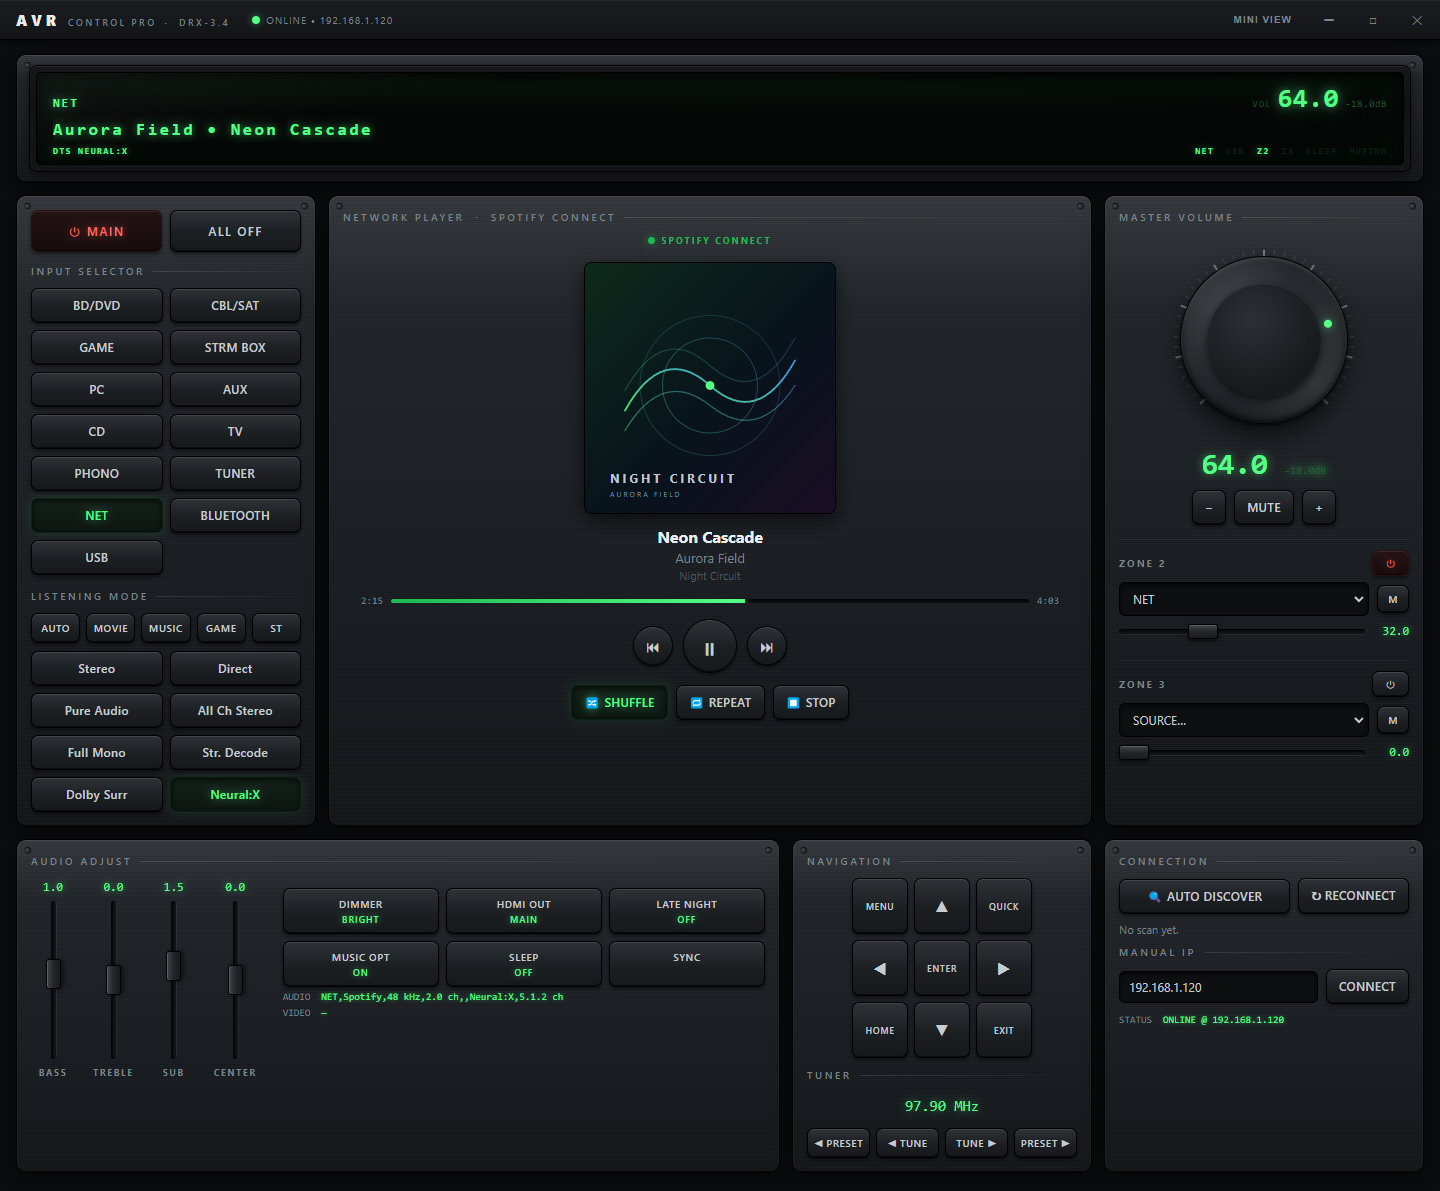
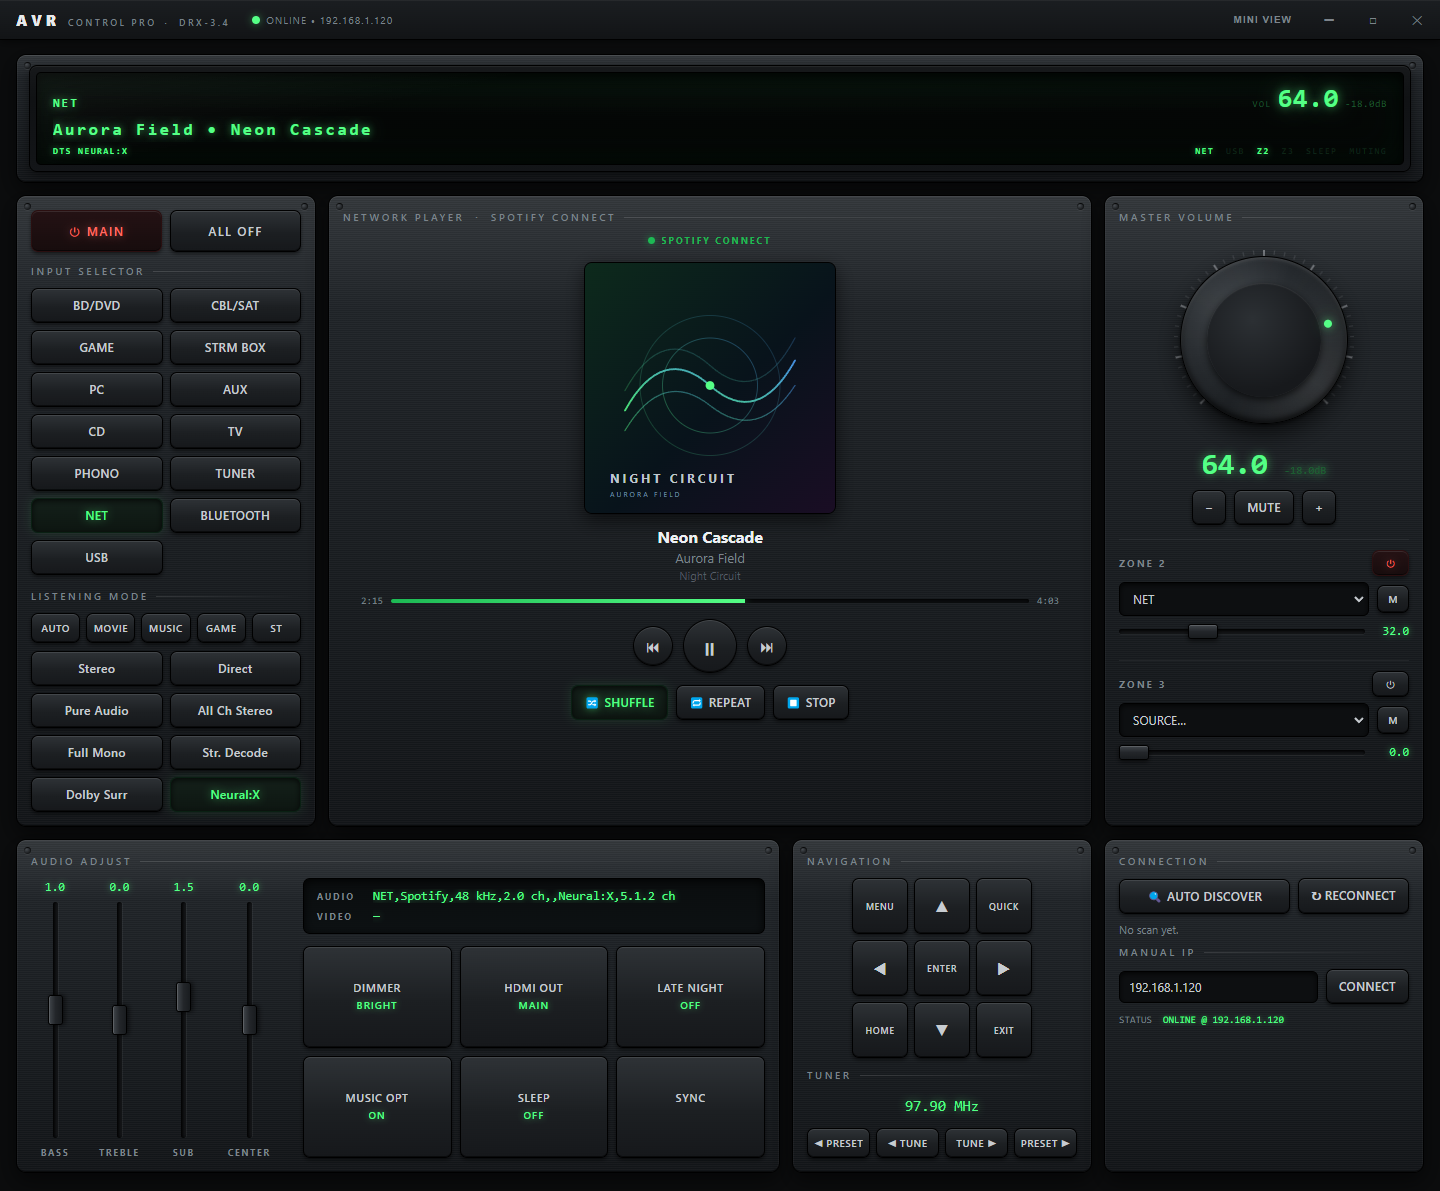
Fill the Audio Adjust panel instead of leaving dead space
The panel is stretched to the bottom row's height by the grid, but its
contents were fixed-size and sat at the top, leaving a large empty area.

- Panel and its columns are flex, so the faders grow to the available
  height rather than a fixed 158px
- Signal readout moves above the buttons and gets its own inset frame at
  12.5px, up from 10px underneath them
- Toggle buttons share the remaining height via equal grid rows
- AUDIO/VIDEO strings run long and ellipsise, so the full value is now
  available on hover

diff --git a/renderer/full.html b/renderer/full.html
@@ -69,15 +69,19 @@
   .nav-extra { display: grid; grid-template-columns: repeat(4, 1fr); gap: 6px; }
   .nav-extra .btn { padding: 7px 4px; font-size: 10px; }
 
-  /* vertical fader bank */
-  .audio-layout { display: grid; grid-template-columns: auto 1fr; gap: 18px; align-items: start; }
-  .fader-bank { display: flex; gap: 20px; padding: 2px 8px 0 2px; }
-  .fader { display: flex; flex-direction: column; align-items: center; gap: 7px; }
+  /* vertical fader bank — the panel is stretched to the row height by the
+     grid, so everything inside grows to use it instead of leaving dead space */
+  .audio-panel { display: flex; flex-direction: column; }
+  .audio-layout { flex: 1; display: grid; grid-template-columns: auto 1fr; gap: 22px;
+    align-items: stretch; min-height: 0; }
+  .fader-bank { display: flex; gap: 24px; padding: 2px 10px 0 4px; align-items: stretch; }
+  .fader { display: flex; flex-direction: column; align-items: center; gap: 8px; min-height: 0; }
   .fader label { font-size: 9px; letter-spacing: 1.6px; color: var(--text-dim); font-weight: 700; }
   .fader .val { font-family: Consolas, monospace; font-size: 12px; color: var(--vfd);
     text-shadow: 0 0 6px var(--vfd-glow); min-width: 40px; text-align: center; }
   input.vfader { writing-mode: vertical-lr; direction: rtl;
-    -webkit-appearance: none; width: 24px; height: 158px; background: transparent; cursor: pointer; }
+    -webkit-appearance: none; width: 24px; flex: 1; min-height: 150px;
+    background: transparent; cursor: pointer; margin: 0; }
   input.vfader::-webkit-slider-runnable-track { width: 5px; height: 100%; border-radius: 3px;
     background: linear-gradient(90deg, #08090a, #17191c);
     box-shadow: inset 1px 0 3px rgba(0,0,0,0.9), 1px 0 0 rgba(255,255,255,0.05); }
@@ -88,10 +92,25 @@
     box-shadow: inset 1px 0 0 rgba(255,255,255,0.15), 2px 0 5px rgba(0,0,0,0.6); }
   input.vfader::-webkit-slider-thumb:hover { background: linear-gradient(90deg, #4b5157, #2a2e33 50%, #1d2023); }
 
-  .adj-toggles { display: grid; grid-template-columns: repeat(3, 1fr); gap: 7px; margin-top: 10px; }
-  .adj-toggles .btn { padding: 8px 4px; font-size: 10px; }
-  .adj-toggles .btn small { display: block; font-size: 9px; color: var(--vfd); margin-top: 2px;
+  .adj-right { display: flex; flex-direction: column; gap: 12px; min-height: 0; }
+  .adj-toggles { flex: 1; display: grid; grid-template-columns: repeat(3, 1fr);
+    grid-auto-rows: 1fr; gap: 8px; }
+  .adj-toggles .btn { padding: 10px 4px; font-size: 11px; line-height: 1.35; }
+  .adj-toggles .btn small { display: block; font-size: 10px; color: var(--vfd); margin-top: 3px;
     text-shadow: 0 0 6px var(--vfd-glow); letter-spacing: 1px; }
+
+  /* signal readout, sitting above the buttons like a meter bridge */
+  .info-block { border-radius: 7px; border: 1px solid #000;
+    background: linear-gradient(180deg, #0a0d0e, #0d1113);
+    box-shadow: inset 0 2px 9px rgba(0,0,0,0.85); padding: 10px 13px;
+    display: flex; flex-direction: column; gap: 6px; }
+  .info-block .readout { display: grid; grid-template-columns: 44px 1fr; gap: 12px;
+    align-items: baseline; font-family: Consolas, monospace; font-size: 12.5px; }
+  .info-block .readout span { font-family: 'Segoe UI', sans-serif; font-size: 9px;
+    font-weight: 700; letter-spacing: 1.8px; color: var(--text-dim); }
+  .info-block .readout b { color: var(--vfd); font-weight: 400;
+    text-shadow: 0 0 6px var(--vfd-glow);
+    white-space: nowrap; overflow: hidden; text-overflow: ellipsis; }
 
   .info-line { font-family: Consolas, monospace; font-size: 10px; color: var(--text-dim);
     white-space: nowrap; overflow: hidden; text-overflow: ellipsis; margin-top: 4px; }
@@ -228,7 +247,7 @@
 
     <div class="bottom-grid">
       <!-- AUDIO ADJUSTMENTS -->
-      <div class="panel screws">
+      <div class="panel screws audio-panel">
         <h3>Audio Adjust</h3>
         <div class="audio-layout">
           <!-- DRX reports these in half-dB units: raw = dB * 2 -->
@@ -239,16 +258,18 @@
             <div class="fader"><span class="val" id="adjCtlVal">0</span><input type="range" class="vfader" id="adjCtl" min="-24" max="24" value="0"><label>CENTER</label></div>
           </div>
           <div class="adj-right">
-        <div class="adj-toggles">
-          <button class="btn" id="tglDim">DIMMER<small id="dimVal">BRIGHT</small></button>
-          <button class="btn" id="tglHdo">HDMI OUT<small id="hdoVal">MAIN</small></button>
-          <button class="btn" id="tglLtn">LATE NIGHT<small id="ltnVal">OFF</small></button>
-          <button class="btn" id="tglMot">MUSIC OPT<small id="motVal">OFF</small></button>
-          <button class="btn" id="tglSlp">SLEEP<small id="slpVal">OFF</small></button>
-          <button class="btn" id="btnRefresh">SYNC<small>&nbsp;</small></button>
-        </div>
-        <div class="info-line">AUDIO&nbsp; <b id="infoAudio">—</b></div>
-        <div class="info-line">VIDEO&nbsp; <b id="infoVideo">—</b></div>
+            <div class="info-block">
+              <div class="readout"><span>AUDIO</span><b id="infoAudio">—</b></div>
+              <div class="readout"><span>VIDEO</span><b id="infoVideo">—</b></div>
+            </div>
+            <div class="adj-toggles">
+              <button class="btn" id="tglDim">DIMMER<small id="dimVal">BRIGHT</small></button>
+              <button class="btn" id="tglHdo">HDMI OUT<small id="hdoVal">MAIN</small></button>
+              <button class="btn" id="tglLtn">LATE NIGHT<small id="ltnVal">OFF</small></button>
+              <button class="btn" id="tglMot">MUSIC OPT<small id="motVal">OFF</small></button>
+              <button class="btn" id="tglSlp">SLEEP<small id="slpVal">OFF</small></button>
+              <button class="btn" id="btnRefresh">SYNC<small>&nbsp;</small></button>
+            </div>
           </div>
         </div>
       </div>

diff --git a/renderer/full.js b/renderer/full.js
@@ -263,8 +263,12 @@ function render(s) {
   document.getElementById('ltnVal').textContent = LTN_LABEL[s.ltn] || s.ltn;
   document.getElementById('motVal').textContent = s.mot === '01' ? 'ON' : 'OFF';
   document.getElementById('slpVal').textContent = s.sleep ? s.sleep + ' MIN' : 'OFF';
-  document.getElementById('infoAudio').textContent = s.audioInfo || '—';
-  document.getElementById('infoVideo').textContent = s.videoInfo || '—';
+  // These strings run long and are ellipsised; keep the full value on hover.
+  for (const [id, val] of [['infoAudio', s.audioInfo], ['infoVideo', s.videoInfo]]) {
+    const el = document.getElementById(id);
+    el.textContent = val || '—';
+    el.title = val || '';
+  }
   document.getElementById('tunerFreq').textContent = fmtTuner(s.tuner) || '—';
   const detail = document.getElementById('connDetail');
   detail.textContent = `${connLabel(s.connection)}${s.connection.ip ? ' @ ' + s.connection.ip : ''}`;
